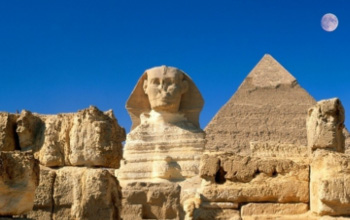
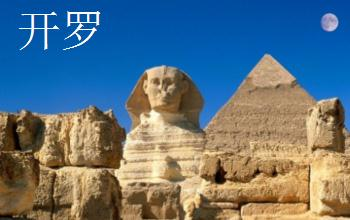
调整显示效果
git-svn-id: https://t.svnchina.com/svn/myuniverse/trunk@244 4c95d191-cd10-4865-8b81-0088ca643448

diff --git a/src/Demo1102/main.cpp b/src/Demo1102/main.cpp
@@ -75,14 +75,7 @@ public:
             m_nShowCity = layer - LAYER_CITY_ICON_START;
 			
 			//kennyzx test
-			if (txt2ImgHelper(m_cities[m_nShowCity].imgPath, 1, m_cities[m_nShowCity].displayname)) //1为模式
-			{
-				cityView = glbLoadImage("temp.jpg"); 
-			}
-			else
-			{
-				cityView = glbLoadImage("error.png");
-			}
+			cityView = glbLoadImage(m_cities[m_nShowCity].imgPath); 
 
             m_bShowDetail = true;
         }
@@ -151,8 +144,7 @@ public:
 
 			//kennyzx test
 			char strLocalTime[32];
-			sprintf(strLocalTime, "%s当地时间是%s", 
-                m_cities[m_nShowCity].displayname, 
+			sprintf(strLocalTime, "时间%s", 
                 m_cities[m_nShowCity].getLocalTimeString());    
 			if(txt2ImgHelper(m_cities[m_nShowCity].imgPath, 2, strLocalTime))//2为模式
 			{
@@ -502,7 +494,10 @@ public:
         {
             m_nShowCity = layer - LAYER_CITY_ICON_START;
 			//kennyzx test
-			if (txt2ImgHelper(m_cities[m_nShowCity].imgPath, 5, m_cities[m_nShowCity].weatherCondition))//5为模式
+			char strWeather[32];
+			sprintf(strWeather, "%s %s", 
+				m_cities[m_nShowCity].weatherCondition, m_cities[m_nShowCity].temprature);
+			if (txt2ImgHelper(m_cities[m_nShowCity].imgPath, 5, strWeather))//5为模式
 			{
 				cityView = glbLoadImage( "temp.jpg" );
 			}
@@ -522,6 +517,7 @@ public:
     }
 };
 
+
 bool invoketext2ImageGenerator(LPCTSTR param)
 {
 	SHELLEXECUTEINFO sei = {0};
@@ -529,7 +525,11 @@ bool invoketext2ImageGenerator(LPCTSTR param)
 	sei.fMask = SEE_MASK_NOCLOSEPROCESS;
 	sei.hwnd = NULL;
 	//sei.lpVerb = TEXT("runas"); //以管理员身份运行，如果XML文件放在C:\Program Files下， 需要以管理员运行才能修改文件。正确的做法是把需要写权限的文件移到AppData或者ProgramData目录下面去。
-	sei.lpFile = TEXT("text2ImageGenerator.exe");
+	TCHAR szPath[MAX_PATH] ;
+	GetModuleFileName(NULL, szPath, MAX_PATH) ;
+	PathRemoveFileSpec(szPath) ;
+	CString file = CString(szPath) + TEXT("\\text2ImageGenerator.exe");
+	sei.lpFile = file;//使用全路径
 		
 	sei.lpParameters = param;
 	sei.nShow = SW_SHOWNORMAL;
@@ -590,10 +590,10 @@ void main()
 	printf("更新Xml的信息...\n");
 	//更新Xml的信息
 //#ifdef RELEASE
-	//if (!CCity::updateXml())
-	//{
-	//	return;
-	//}
+	/*if (!CCity::updateXml())
+	{
+		return;
+	}*/
 //#endif
 
 	vector<CCity> cities = CCity::getCities(); //读取Xml中的城市列表
